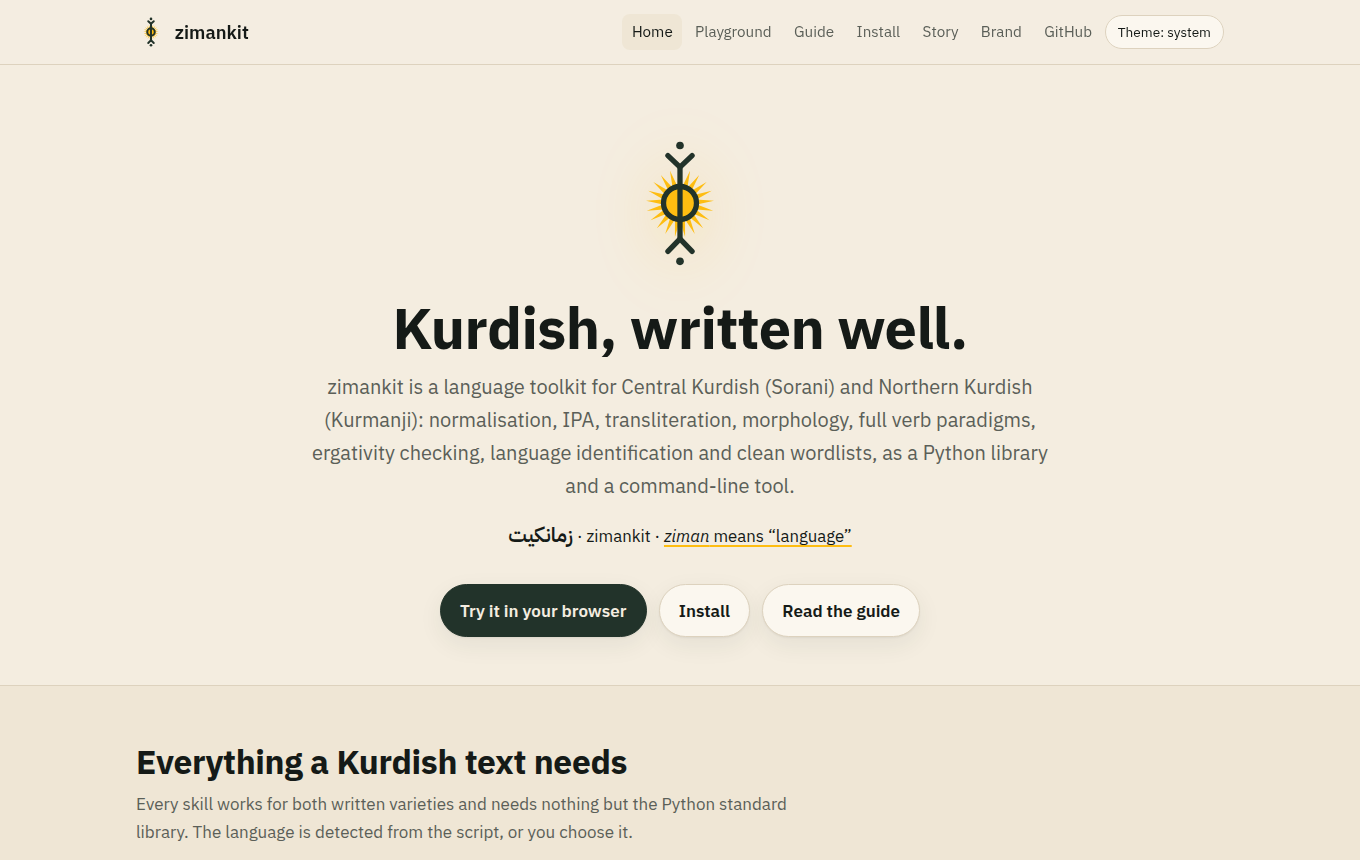
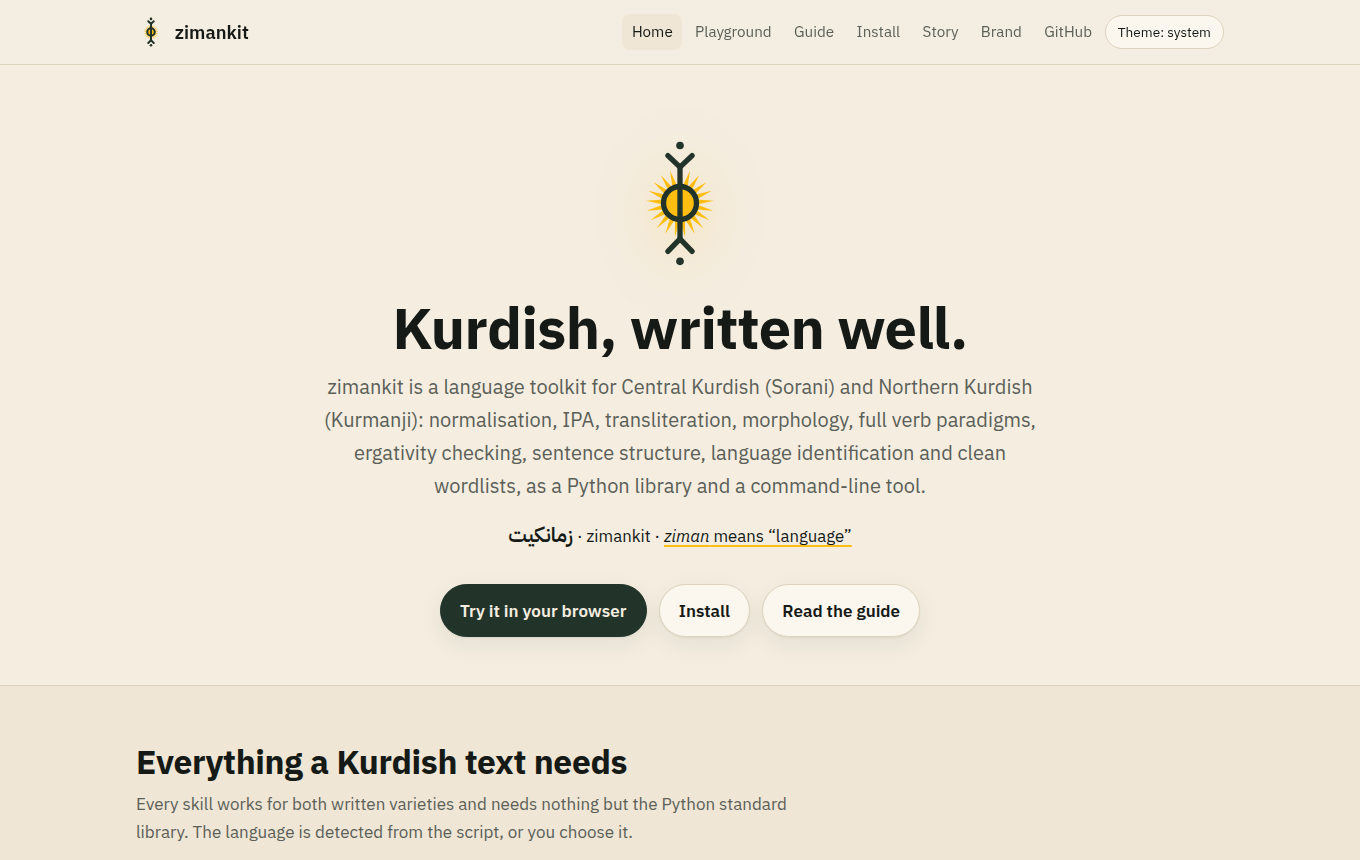
Website, README and screenshots for the sentence diagram
Show the diagram on the home page and in the README, document parse in the
guide, correct the chapter, skill and test counts, and retake the website
screenshots, with new ones of the sentence view for the brand kit.

Changed region(s): [[0.2162, 0.514, 0.7721, 0.5744]]

diff --git a/site/pages/index.html b/site/pages/index.html
@@ -3,7 +3,7 @@
   <img class="mark on-light" src="brand/logo/svg/zimankit-mark.svg" alt="zimankit logo: the deq tree-of-life sign with the sun of the flag of Kurdistan" width="132" height="132">
   <img class="mark on-dark" src="brand/logo/svg/zimankit-mark-on-dark.svg" alt="zimankit logo: the deq tree-of-life sign with the sun of the flag of Kurdistan" width="132" height="132">
   <h1>Kurdish, written well.</h1>
-  <p class="lead">zimankit is a language toolkit for Central Kurdish (Sorani) and Northern Kurdish (Kurmanji): normalisation, IPA, transliteration, morphology, full verb paradigms, ergativity checking, language identification and clean wordlists, as a Python library and a command-line tool.</p>
+  <p class="lead">zimankit is a language toolkit for Central Kurdish (Sorani) and Northern Kurdish (Kurmanji): normalisation, IPA, transliteration, morphology, full verb paradigms, ergativity checking, sentence structure, language identification and clean wordlists, as a Python library and a command-line tool.</p>
   <p class="names"><span class="ar" lang="ckb">زمانکیت</span> · zimankit · <a href="story.html"><em>ziman</em> means “language”</a></p>
   <div class="cta">
     <a class="btn primary" href="playground.html">Try it in your browser</a>
@@ -23,13 +23,21 @@
     <div class="card"><span class="icon">∑</span><h3>Verb paradigms</h3><p>Conjugate any verb through every tense, mood, person and polarity, including compound verbs and verbs not in the reference list.</p><code class="eg">zimankit conjugate کردن</code></div>
     <div class="card"><span class="icon">⚖</span><h3>Ergativity</h3><p>Check Kurmanji split ergativity: in past transitive clauses the verb agrees with the object, and zimankit says when it does not.</p><code class="eg">Min tu dîtim. → agreement_ok: false</code></div>
     <div class="card"><span class="icon">?</span><h3>Language identification</h3><p>Tell Sorani, Kurmanji, Zazaki and Gorani apart from each other and from Persian, Arabic, Turkish and English.</p><code class="eg">Ma yew roje … → zza 0.995</code></div>
+    <div class="card"><span class="icon">⌒</span><h3>Sentence structure</h3><p>See how the words of a sentence depend on each other: subject, object, adpositions, ezafe. <a href="playground.html">Click through a diagram</a> that explains each word.</p><code class="eg">zimankit parse "Ew baş e."</code></div>
     <div class="card"><span class="icon">≡</span><h3>Wordlists and data</h3><p>Build clean wordlists, lemma tables and grammar rules from dictionaries, wiki dumps and corpora, and export a flat Kaggle dataset.</p><code class="eg">python run_pipeline.py</code></div>
     <div class="card"><span class="icon">✎</span><h3>Learn Kurdish</h3><p>Two complete courses, Sorani and Kurmanji, 23 lessons each, from the alphabet to ergativity. Their tables are generated by zimankit.</p><code class="eg">docs/tutorials/</code></div>
   </div>
 </div></section>
 
 <section><div class="wrap">
-  <h2>See it</h2>
+  <h2>See how a sentence fits together</h2>
+  <p class="intro">Type a Sorani or Kurmanji sentence and see how its words depend on each other. Click any word or arrow to learn its role, position and form.</p>
+  <a href="playground.html"><img class="shot" src="brand/screenshots/website-sentence-word.png" alt="a Kurmanji sentence drawn as coloured arrows between its words, with one word selected and explained" width="1088" loading="lazy"></a>
+  <p class="cta"><a class="btn primary" href="playground.html">Try your own sentence</a></p>
+</div></section>
+
+<section class="alt"><div class="wrap">
+  <h2>See it in the terminal</h2>
   <p class="intro">Real output of the <code>zimankit</code> command. Run the same commands in the <a href="playground.html">playground</a>, no installation needed.</p>
   <div class="grid two">
     <div class="terminal"><div class="bar"><i></i><i></i><i></i></div><pre><span class="p">$</span> zimankit ipa پیاوەکە کتێبەکەم jinekê dîtin
@@ -60,7 +68,7 @@ jinekê     jin  NOUN  jin+ekê      STEM+INDEF.OBL.F
   </div>
 </div></section>
 
-<section class="alt" id="install"><div class="wrap">
+<section id="install"><div class="wrap">
   <h2>Install</h2>
   <p class="intro">zimankit {{version}} needs Python 3.11 or newer and has no dependencies. Every file is on the <a href="https://github.com/0xdolan/zimankit/releases/latest">latest release</a>.</p>
   <div class="grid two">
@@ -78,15 +86,16 @@ python -m pytest -q</pre></div>
   <p class="muted small">Check a download with <code>sha256sum -c SHA256SUMS</code>. Optional extras: <code>[data]</code> to read <code>.mdx</code> and <code>.zim</code> files, <code>[kaggle]</code> for the Parquet export.</p>
 </div></section>
 
-<section><div class="wrap">
+<section class="alt"><div class="wrap">
   <h2>Use it from Python</h2>
   <div class="grid two">
-<pre>from zimankit import analyze, normalize, to_ipa, identify
+<pre>from zimankit import analyze, normalize, parse, to_ipa, identify
 
 analyze("کتێبەکەم")[0].segmentation   <span class="c"># 'کتێب+ەکە+م'</span>
 to_ipa("jinekê")                        <span class="c"># 'ʒɪnɛkeː'</span>
 normalize("كوردي")                      <span class="c"># 'کوردی'</span>
-identify("Îro hewa xweş e").lang        <span class="c"># 'kmr'</span></pre>
+identify("Îro hewa xweş e").lang        <span class="c"># 'kmr'</span>
+parse("Ew baş e.").tokens[1].deprel     <span class="c"># 'root'</span></pre>
     <div>
       <ol class="steps">
         <li><strong>Install</strong> with pip or the <code>.deb</code>.</li>
@@ -98,7 +107,7 @@ identify("Îro hewa xweş e").lang        <span class="c"># 'kmr'</span></pre>
   </div>
 </div></section>
 
-<section class="alt"><div class="wrap">
+<section><div class="wrap">
   <div class="grid two" style="align-items:center">
     <div>
       <h2>A sun at the heart of a sign of life</h2>
@@ -109,13 +118,13 @@ identify("Îro hewa xweş e").lang        <span class="c"># 'kmr'</span></pre>
   </div>
 </div></section>
 
-<section><div class="wrap">
+<section class="alt"><div class="wrap">
   <h2>Links</h2>
   <div class="grid">
     <a class="card" href="https://github.com/0xdolan/zimankit" style="text-decoration:none"><h3>Source code</h3><p>GitHub repository, issues and pull requests.</p></a>
     <a class="card" href="https://github.com/0xdolan/zimankit/releases/latest" style="text-decoration:none"><h3>Releases</h3><p>Wheel, sdist, .deb, source archives and checksums.</p></a>
     <a class="card" href="https://github.com/0xdolan/zimankit/blob/main/docs/tutorials/README.md" style="text-decoration:none"><h3>Tutorials</h3><p>Learn Sorani or Kurmanji from zero.</p></a>
-    <a class="card" href="https://github.com/0xdolan/zimankit/blob/main/docs/00-index.md" style="text-decoration:none"><h3>Developer docs</h3><p>21 chapters on Unicode, orthography, phonology, morphology and the pipeline.</p></a>
+    <a class="card" href="https://github.com/0xdolan/zimankit/blob/main/docs/00-index.md" style="text-decoration:none"><h3>Developer docs</h3><p>22 chapters on Unicode, orthography, phonology, morphology, sentence structure and the pipeline.</p></a>
     <a class="card" href="https://www.kaggle.com/datasets/zeroxdolan/kurdish-lexicon" style="text-decoration:none"><h3>Kaggle dataset</h3><p>Kurdish Lexicon: one row per word, 59 columns.</p></a>
     <a class="card" href="brand.html" style="text-decoration:none"><h3>Brand kit</h3><p>Logo, icons, social cards, banners and print files.</p></a>
   </div>

diff --git a/site/pages/guide.html b/site/pages/guide.html
@@ -14,6 +14,7 @@
   <a href="#analyze">· analyze</a>
   <a href="#conjugate">· conjugate</a>
   <a href="#ergativity">· ergativity</a>
+  <a href="#parse">· parse</a>
   <a href="#rules">· rules</a>
   <a href="#python">Python API</a>
   <a href="#pipeline">Wordlist pipeline</a>
@@ -65,6 +66,7 @@
   <tr><td><code>analyze</code></td><td>morphological analysis</td><td><code>--top N</code>, <code>--json</code></td></tr>
   <tr><td><code>conjugate</code></td><td>full verb paradigm</td><td><code>--present STEM</code>, <code>--transitive yes|no</code></td></tr>
   <tr><td><code>ergativity</code></td><td>Kurmanji clause alignment and agreement check</td><td></td></tr>
+  <tr><td><code>parse</code></td><td>sentence structure: the head and relation of each word</td><td><code>--lang</code>, <code>--json</code></td></tr>
   <tr><td><code>rules</code></td><td>exports <code>grammar_rules_&lt;lang&gt;.json</code></td><td><code>--lang</code> (required), <code>--out</code></td></tr>
 </table>
 
@@ -137,12 +139,27 @@ nakim	tense=present,mood=indicative,person=1sg,polarity=neg,agreement=subject</p
  "agreement_ok": false, "notes": ["verb ending marks 1sg but object 'tu' is 2sg"]}</pre>
 <p>The correct sentence is <em>Min tu dîtî</em> (“I saw you”), where the verb agrees with <em>tu</em>.</p>
 
+<h3 id="parse">parse</h3>
+<p>The structure of a sentence: for each word its position, form, dictionary form, word class, head (0 for the root) and relation, with <a href="https://universaldependencies.org/u/dep/">Universal Dependencies</a> labels. <code>--json</code> adds the morphology, a plain-language explanation of each word, the word order and, for Kurmanji, the alignment. The <a href="playground.html">playground</a> draws this as a diagram you can click.</p>
+<pre><span class="p">$</span> zimankit parse "Min pirtûka nû li dibistanê xwend."
+1	Min	min	PRON	6	nsubj
+2	pirtûka	pirtûk	NOUN	6	obj
+3	nû	nû	NOUN	2	nmod
+4	li	li	ADP	5	case
+5	dibistanê	dibistan	NOUN	6	obl
+6	xwend	xwendin	VERB	0	root
+7	.	.	PUNCT	6	punct</pre>
+<p>The analysis is a set of rules over zimankit's morphology, not a trained parser. It is reliable for simple clauses and approximate for complex ones: words the morphology does not know, and sentences with several clauses, can be attached wrongly. <code>notes</code> in the JSON says when the rules were unsure. <a href="https://github.com/0xdolan/zimankit/blob/main/docs/22-sentence-structure.md">Chapter 22</a> explains the rules, the relations and the limits. Words joined by ezafe are labelled <code>amod</code> only when they are known adjectives, and otherwise <code>nmod</code>.</p>
+
 <h3 id="rules">rules</h3>
 <pre><span class="p">$</span> zimankit rules --lang kmr --out grammar_rules_kmr.json</pre>
 <p>Writes the grammar rules zimankit uses as JSON, for use in other tools: alphabet, orthography, phonology, morphology, verbs, syntax and the regular expressions.</p>
 
 <h2 id="python">Python API</h2>
-<pre>from zimankit import analyze, normalize, to_ipa, identify, detect_script, __version__
+<pre>from zimankit import analyze, normalize, parse, to_ipa, identify, detect_script, __version__
+
+[(w.text, w.deprel, w.head) for w in parse("Ew baş e.").tokens]
+<span class="c"># [('Ew', 'nsubj', 2), ('baş', 'root', 0), ('e', 'cop', 2), ('.', 'punct', 2)]</span>
 
 normalize("كوردي")                        <span class="c"># 'کوردی'</span>
 to_ipa("jinekê")                          <span class="c"># 'ʒɪnɛkeː'</span>
@@ -184,11 +201,11 @@ python run_pipeline.py --stages export</pre>
 <h2 id="learn">Tutorials and docs</h2>
 <ul>
   <li><a href="https://github.com/0xdolan/zimankit/blob/main/docs/tutorials/README.md"><strong>Tutorials</strong></a>: two complete courses, <a href="https://github.com/0xdolan/zimankit/blob/main/docs/tutorials/ckb/README.md">Sorani</a> and <a href="https://github.com/0xdolan/zimankit/blob/main/docs/tutorials/kmr/README.md">Kurmanji</a>, 23 lessons each from the alphabet to ergativity, tagged beginner, intermediate and advanced. Their tables are generated by zimankit and tested.</li>
-  <li><a href="https://github.com/0xdolan/zimankit/blob/main/docs/00-index.md"><strong>Developer documentation</strong></a>: 21 chapters on data ingestion, Unicode, language identification, tokenisation, the orthography, phonology, morphology and verbs of each variety, transliteration, the pipeline, a regex cookbook, testing, a glossary and references.</li>
+  <li><a href="https://github.com/0xdolan/zimankit/blob/main/docs/00-index.md"><strong>Developer documentation</strong></a>: 22 chapters on data ingestion, Unicode, language identification, tokenisation, the orthography, phonology, morphology and verbs of each variety, transliteration, sentence structure, the pipeline, a regex cookbook, testing, a glossary and references.</li>
 </ul>
 
 <h2 id="skills">Agent skills</h2>
-<p>The <a href="https://github.com/0xdolan/zimankit/blob/main/skills/README.md"><code>skills/</code></a> folder has ten self-contained skills (<code>SKILL.md</code> with front matter) that an AI agent can load to work with Kurdish: orthography, IPA, morphology and verbs for each variety, language identification and the wordlist builder. They call the zimankit package.</p>
+<p>The <a href="https://github.com/0xdolan/zimankit/blob/main/skills/README.md"><code>skills/</code></a> folder has eleven self-contained skills (<code>SKILL.md</code> with front matter) that an AI agent can load to work with Kurdish: orthography, IPA, morphology and verbs for each variety, sentence structure, language identification and the wordlist builder. They call the zimankit package.</p>
 
 <h2 id="ports">Other languages</h2>
 <p><a href="https://github.com/0xdolan/zimankit/blob/main/examples/README.md"><code>examples/</code></a> implements the same portable core (normalisation and suffix segmentation) in shell, Python, TypeScript, Rust, Go, Java and C#, with the same expected output, so you can port the rules to any stack.</p>

diff --git a/site/pages/brand.html b/site/pages/brand.html
@@ -68,7 +68,8 @@
 <section><div class="wrap">
   <h2>Screenshots</h2>
   <div class="grid two">
-    <div class="card"><img class="shot" src="brand/screenshots/website-playground.png" alt="the playground" width="1360" height="860" loading="lazy"><div class="dl"><a href="brand/screenshots/website-playground.png" download>playground</a></div></div>
+    <div class="card"><img class="shot" src="brand/screenshots/website-sentence-word.png" alt="the sentence diagram with a word explained" loading="lazy"><div class="dl"><a href="brand/screenshots/website-sentence.png" download>sentence</a><a href="brand/screenshots/website-sentence-word.png" download>word explained</a><a href="brand/screenshots/website-sentence-sorani.png" download>Sorani</a><a href="brand/screenshots/website-sentence-dark.png" download>dark</a><a href="brand/screenshots/website-sentence-mobile.png" download>mobile</a></div></div>
+    <div class="card"><img class="shot" src="brand/screenshots/website-playground.png" alt="the playground commands" width="1360" height="860" loading="lazy"><div class="dl"><a href="brand/screenshots/website-playground.png" download>commands</a></div></div>
     <div class="card"><img class="shot" src="brand/screenshots/website-home-dark.png" alt="the website in dark mode" width="1360" height="860" loading="lazy"><div class="dl"><a href="brand/screenshots/website-home.png" download>home, light</a><a href="brand/screenshots/website-home-dark.png" download>home, dark</a><a href="brand/screenshots/website-home-mobile.png" download>mobile</a></div></div>
   </div>
 </div></section>

diff --git a/README.md b/README.md
@@ -25,14 +25,14 @@
 
 | | |
 |---|---|
-| Skills | orthography · IPA / G2P · syllabification · transliteration · morphology · verb paradigms · split-ergativity checking · language identification |
+| Skills | orthography · IPA / G2P · syllabification · transliteration · morphology · verb paradigms · split-ergativity checking · sentence structure · language identification |
 | Data readers | `.mdx` dictionaries (in-process via `mdict-utils`) · `.zim` wiki dumps (`libzim`) · plain-text corpora |
 | Kaggle dataset | `output/kaggle/` — one row per word, 59 flat columns (features, IPA, syllables, both scripts, definitions, frequency) as CSV · Parquet · SQLite + data card |
 | Outputs | `clean_wordlist_ckb.csv` (329 190 forms) · `clean_wordlist_kmr.csv` (506 407 forms) · lemma tables · variant maps · grammar-rule JSON |
-| Quality | 94 tests incl. the ground-truth matrix and the tutorial drift check · IPA agrees 96.5 % (ckb) / 97.8 % (kmr) with reference transcriptions in the data |
+| Quality | 120+ tests incl. the ground-truth matrix and the tutorial drift check · IPA agrees 96.5 % (ckb) / 97.8 % (kmr) with reference transcriptions in the data |
 | Dependencies | standard library only for the skills; `mdict-utils`, `libzim` for data ingestion |
 
-<p align="center"><a href="https://0xdolan.github.io/zimankit/playground.html"><img src="assets/brand/screenshots/website-playground.png" width="820" alt="the zimankit playground: Kurdish words analysed in the browser"></a></p>
+<p align="center"><a href="https://0xdolan.github.io/zimankit/playground.html"><img src="assets/brand/screenshots/website-sentence-word.png" width="820" alt="the zimankit playground: a Kurmanji sentence drawn as coloured arrows between its words, with one word explained"></a></p>
 
 ## Install
 
@@ -56,6 +56,7 @@ python -m zimankit analyze کتێبەکەم jinekê
 python -m zimankit ipa پیاوەکە کتێبەکەم jinekê dîtin      # pjaːwækæ k(ɯ)teːbækæm ʒɪnɛkeː diːtɯn
 python -m zimankit conjugate کردن
 echo "Min tu dîtim." | python -m zimankit ergativity       # agreement_ok: false
+python -m zimankit parse "Min pirtûka nû li dibistanê xwend."   # head and relation of each word
 python -m zimankit lid "Ma yew roje şima ra vat ke ziwanê ma zaf rind o"   # zza
 python -m pytest -q
 ```
@@ -84,6 +85,7 @@ Start at the **[documentation index](docs/00-index.md)**.
 | Northern Kurdish | [11 Orthography](docs/11-kmr-orthography.md) · [12 Phonology & IPA](docs/12-kmr-phonology-ipa.md) · [13 Morphology](docs/13-kmr-morphology.md) · [14 Verbs & ergativity](docs/14-kmr-verbs-ergativity.md) |
 | Cross-cutting | [15 Transliteration](docs/15-transliteration.md) · [16 Wordlist pipeline](docs/16-lexicon-pipeline.md) · [17 Regex cookbook](docs/17-regex-cookbook.md) · [18 Multi-language examples](docs/18-multi-language-examples.md) · [19 Testing](docs/19-testing.md) |
 | Reference | [20 Glossary](docs/20-glossary.md) · [21 References](docs/21-references.md) |
+| Sentences | [22 Sentence structure](docs/22-sentence-structure.md) |
 
 Also: [agent skills](skills/README.md) · [cross-language examples](examples/README.md) · [engineering brief](PROMPT.md) · [contributing and releases](CONTRIBUTING.md) · [changelog](CHANGELOG.md) · [website source](site/).
 
@@ -100,6 +102,7 @@ zimankit/
 │   ├── skills_kmr/          orthography · phonology_ipa · morphology · verbs · syntax · translit · config.toml
 │   ├── lexicon/             wiki_lexicon · corpus · harvest · builder · export
 │   ├── data/                authored reference tables (core verbs, function words)
+│   ├── dependency.py        sentence structure: head and relation of each word
 │   ├── rules.py             grammar_rules_<lang>.json exporter
 │   └── cli.py               python -m zimankit …
 ├── output/{ckb,kmr}/        generated wordlists and reports

diff --git a/CHANGELOG.md b/CHANGELOG.md
@@ -4,6 +4,13 @@ All notable changes to zimankit are recorded here. The format follows [Keep a Ch
 
 ## [Unreleased]
 
+### Added
+
+- **Sentence structure**: `zimankit parse` and `zimankit.parse()` give the head and relation of each word (Universal Dependencies labels) with a plain-language explanation, using rules over the morphology. They cover subject and object by case and alignment (Kurmanji) or order (Sorani), adpositions, ezafe, determiners, coordination and the copula. Complex sentences get an approximate structure.
+- **Sentence diagram in the playground**: coloured arrows between the words of a Sorani or Kurmanji sentence. Click a word, an arrow or a colour to see its role, position, form and what depends on it.
+- **Documentation**: [chapter 22, Sentence structure](docs/22-sentence-structure.md), new glossary entries, the `kurdish-sentence-structure` agent skill, and the guide's `parse` section.
+- **Website**: the sentence diagram on the home page, and new screenshots in `assets/brand/screenshots/` and on the brand page.
+
 ## [0.1.0] - 2026-10-29
 
 The first release.

diff --git a/assets/brand/README.md b/assets/brand/README.md
@@ -98,6 +98,7 @@ assets/brand/
 ├── print/     poster-a4 (PDF + 300 dpi PNG) · sticker-75mm (PDF + 300 dpi PNG)
 ├── story/     zimankit-logo-construction (@1x @2x) · deq/ (deq photos and drawings, see "Deq today")
 ├── screenshots/ website-home · website-home-dark · website-home-mobile · website-playground
+│              website-sentence · -sentence-word · -sentence-sorani · -sentence-dark · -sentence-mobile
 ├── kaggle/    kaggle-cover.svg (hand-made layout) · dataset-cover-image.png (560x280)
 └── src/       the same compositions with live text
 ```
